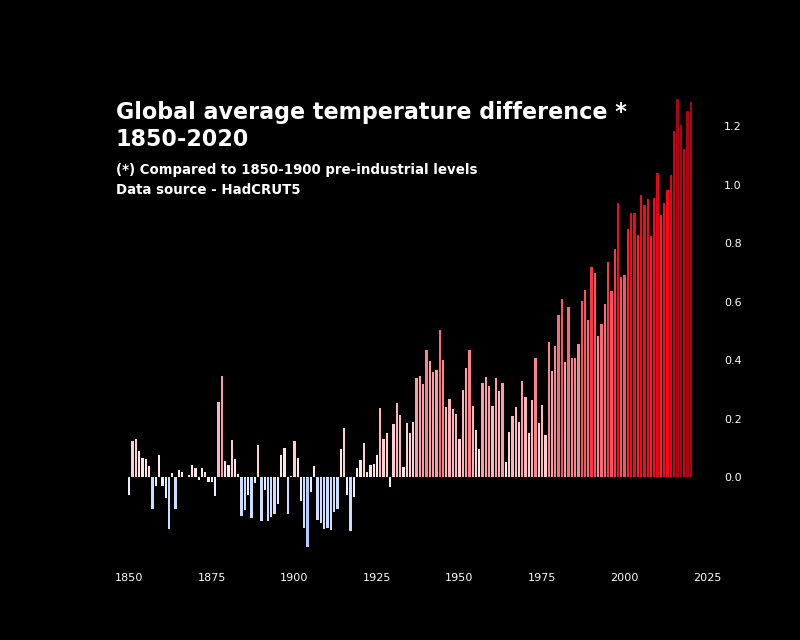
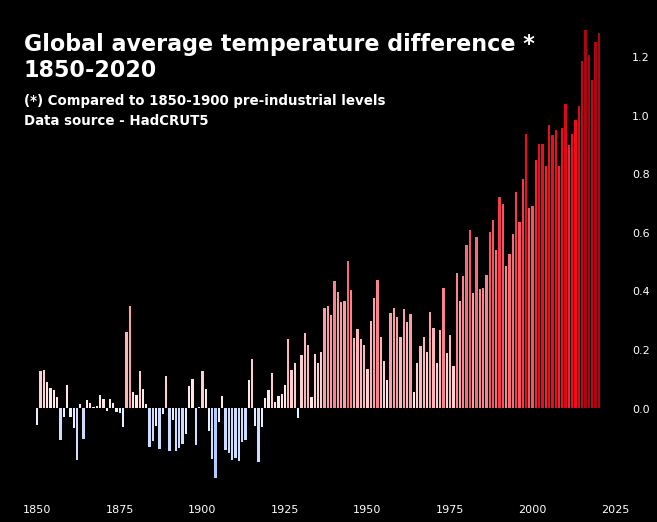
Bar plot: remove (again) the padding space

diff --git a/hadcrut5-bars.py b/hadcrut5-bars.py
@@ -129,7 +129,7 @@ def plotbar(dataset, outfile, period, verbose):
     fig.set_size_inches(10, 8)   # 1 inch equal to 80pt
 
     if outfile:
-        fig.savefig(outfile, dpi=80, bbox_inches=None)
+        fig.savefig(outfile, dpi=80, bbox_inches='tight')
 
     plt.show()
 
